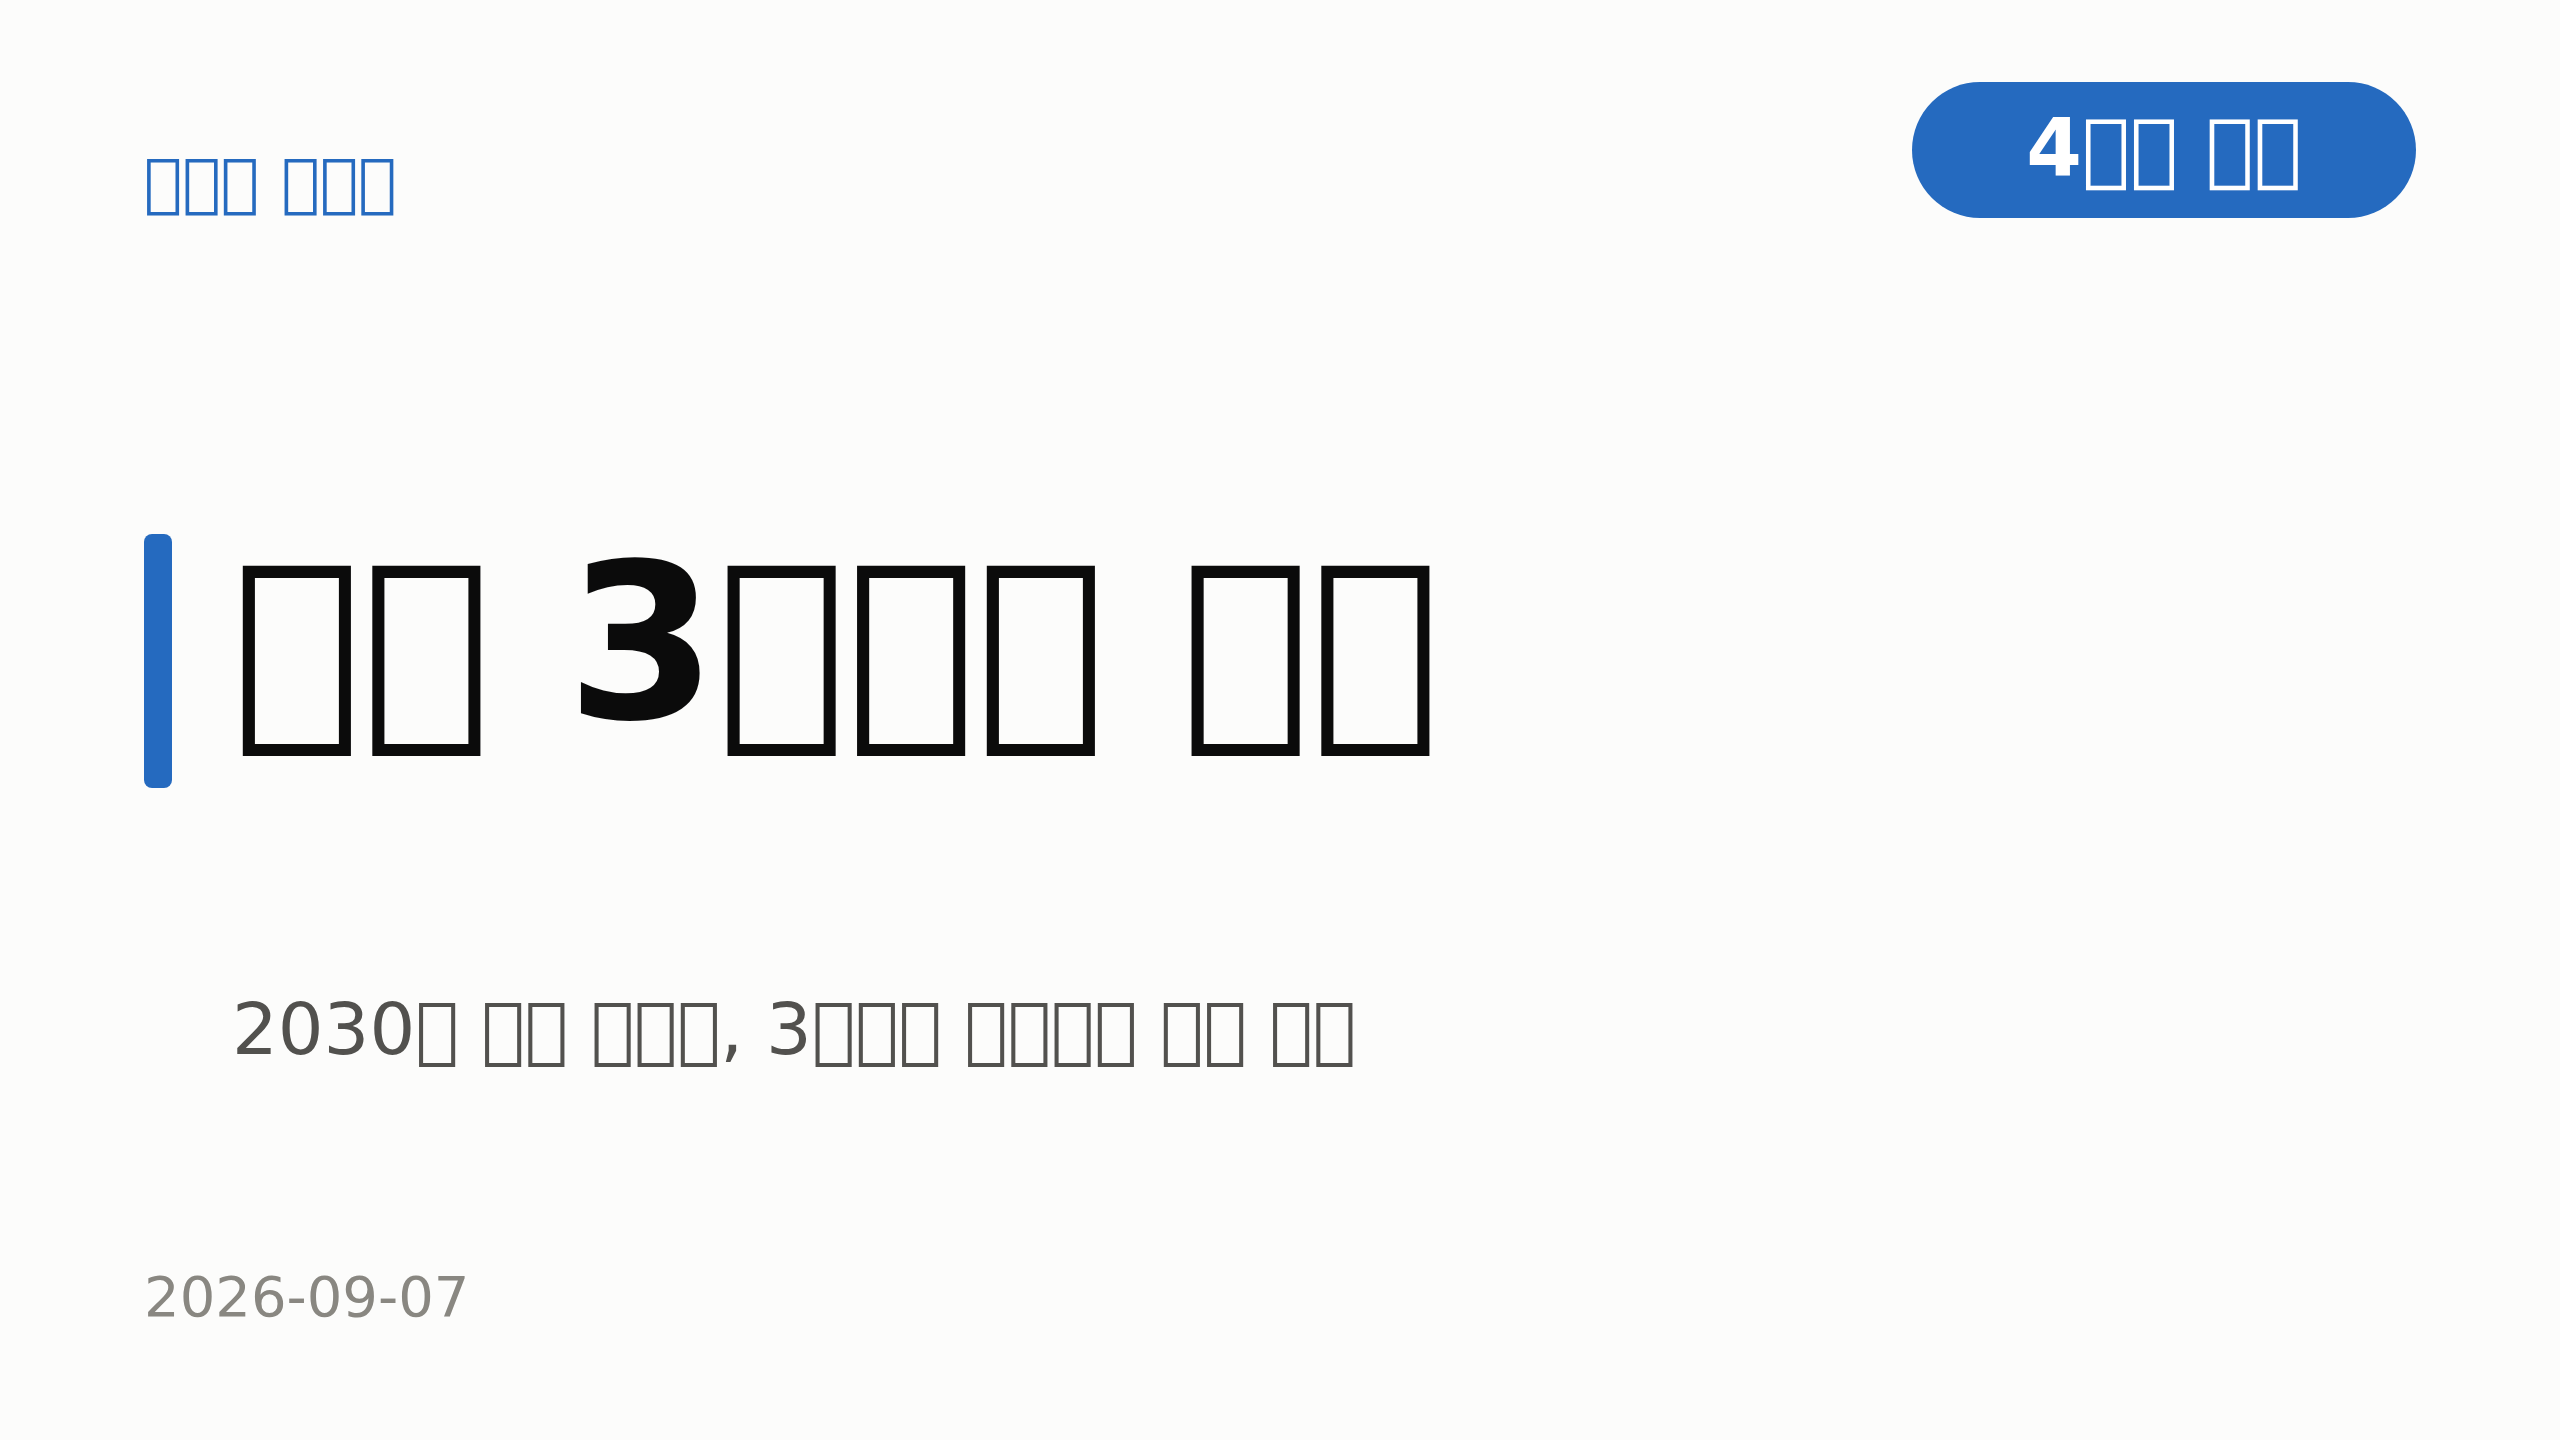
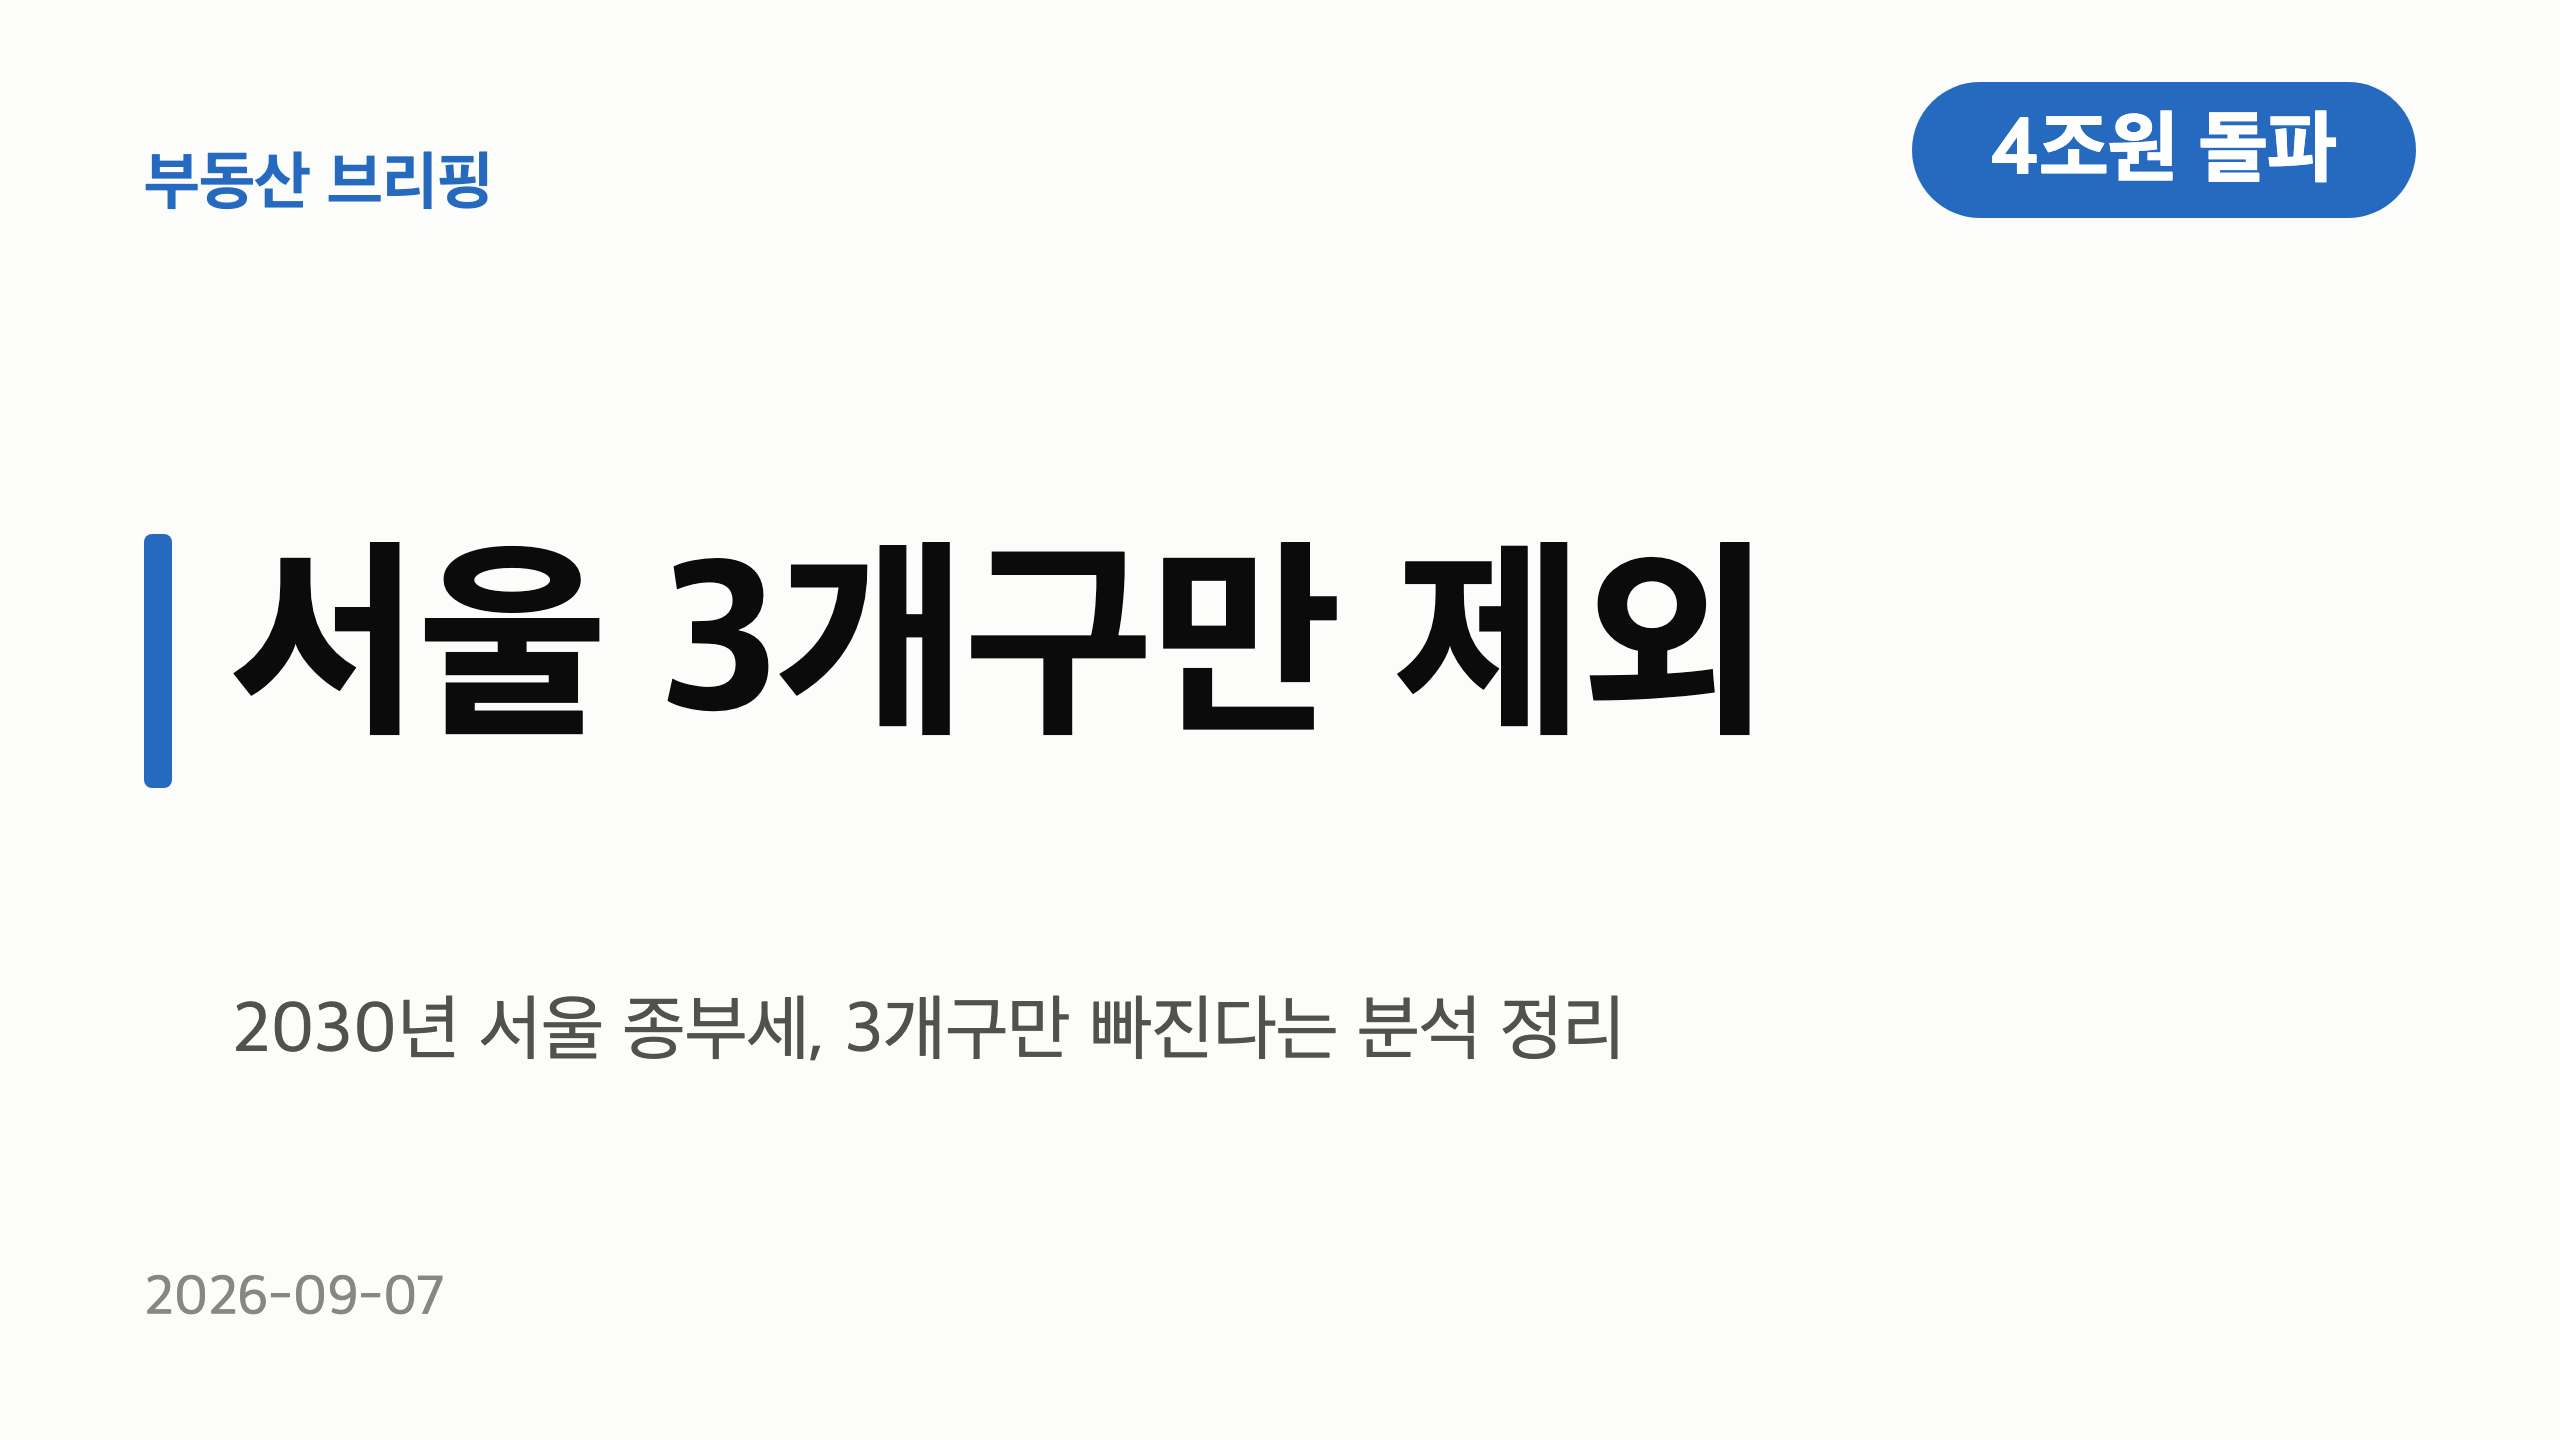
러너에 한글 글꼴 설치 (PNG 의 한글이 네모로 깨지던 문제)
- 데일리·주간 워크플로에 fonts-noto-cjk 설치 단계. images.FONT 에 Noto Sans CJK KR 추가
- 오늘(09-07) 그림 7장은 맥에서 다시 변환해 커밋

diff --git a/rebrief/images.py b/rebrief/images.py
@@ -34,7 +34,9 @@ BLUE = "#256abf"        # 파랑 step500 — 흰 글씨 대비 5.39:1
 BLUE_SOFT = "#cde2fb"   # 파랑 step100
 CRITICAL = "#d03b3b"
 GOOD = "#006300"
-FONT = "'Apple SD Gothic Neo','Noto Sans KR',system-ui,-apple-system,sans-serif"
+# 맥(Apple SD Gothic Neo) → 리눅스 러너(Noto Sans CJK KR, 워크플로에서 설치) → 그 외 순서.
+# 러너에 한글 글꼴이 없으면 PNG 의 한글이 전부 네모로 깨진다 (2026-09-07 실제로 그랬음).
+FONT = "'Apple SD Gothic Neo','Noto Sans CJK KR','Noto Sans KR','NanumGothic',system-ui,-apple-system,sans-serif"
 
 # 서울 25개 자치구의 상대 위치 도식. 실제 지형·면적과는 무관하다.
 SEOUL_LAYOUT: list[dict[int, str]] = [
